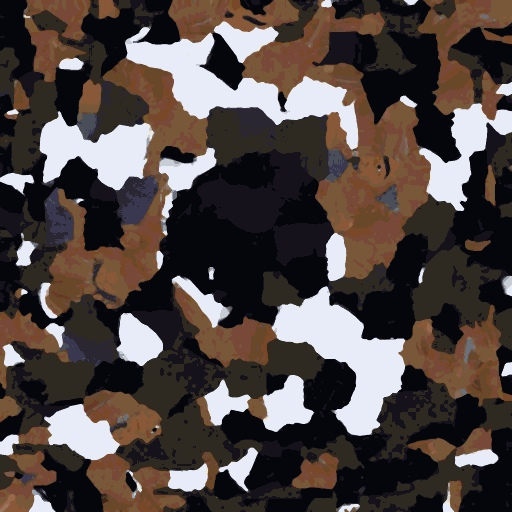
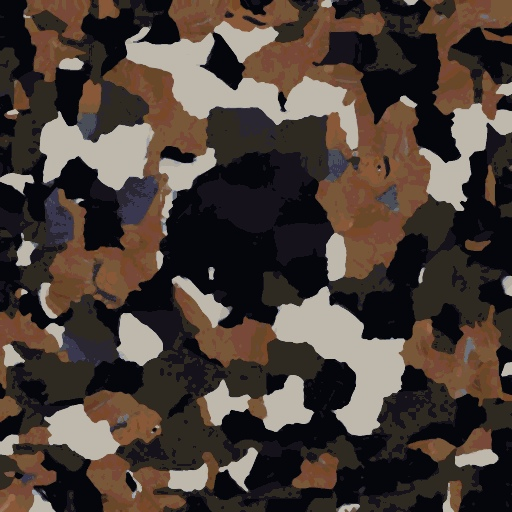
Personagens: branco da roupa limitado e contorno neon pesado pela claridade (manga do Otto não estoura)
Claude-Session: https://claude.ai/code/session_01WU8TdwGyomyxCuoEUUUd3U

diff --git a/tools/blender/char_ps1_textures.py b/tools/blender/char_ps1_textures.py
@@ -37,6 +37,17 @@ for name in TEX:
     skin = (r > g) & (g > b) & ((r - b) > 28) & (r > 70) & ((r - g) < 90)
     post = (a // 16) * 16 + 8
     out = np.where(skin[..., None], post, np.asarray(q).astype(np.int16))
-    Image.fromarray(np.clip(out, 0, 255).astype(np.uint8)).save(f, quality=96)
+    # branco nunca puro: camisa/colarinho viram cinza claro levemente quente (o branco chapado
+    # estourava com a luz da rua e o contorno neon, sem forma)
+    o = out.astype(np.float32)
+    lum = o.mean(2, keepdims=True)
+    hi = lum > 170
+    warm = np.array([200, 192, 178], np.float32)
+    o = np.where(hi, warm * (0.82 + 0.18 * (lum - 170) / 85.0) * (o / np.maximum(lum, 1)) ** 0.3, o)
+    out = np.clip(o, 0, 214)
+    Image.fromarray(out.astype(np.uint8)).save(f, quality=96)
+    # máscara do contorno: forte no escuro, fraca no claro (superfície clara não "brilha" de neon)
+    rim = (255 * np.clip(1.15 - out.mean(2) / 200.0, 0.15, 1.0)).astype(np.uint8)
+    Image.fromarray(rim, "L").save(f.replace(".jpg", "_rim.png"))
     print("  pele preservada: %.1f%%" % (skin.mean() * 100))
     print("PS1", name, side)

diff --git a/docs/CONTEXTO_E_DECISOES.md b/docs/CONTEXTO_E_DECISOES.md
@@ -190,3 +190,6 @@ comparação em `docs/referencias/personagens/comparacao_elenco.jpg`. Vance (det
   do Godot estoura). Originais em `tools/props/_orig/char_*` (fora do git).
 - **Prova dentro do jogo:** `game/tools_dev/char_ingame_shot.tscn` (NPCs na rua em close, frente e 3/4,
   e tela de diálogo; a câmera entra na SubViewport retrô do `main.gd`).
+- Branco nunca puro nas texturas dos personagens (cinza claro quente, máx. 214) e contorno neon
+  pesado pelo inverso da claridade (`*_rim.png` gerado junto, usado como `rim_texture`): a manga do
+  Otto parou de estourar.
